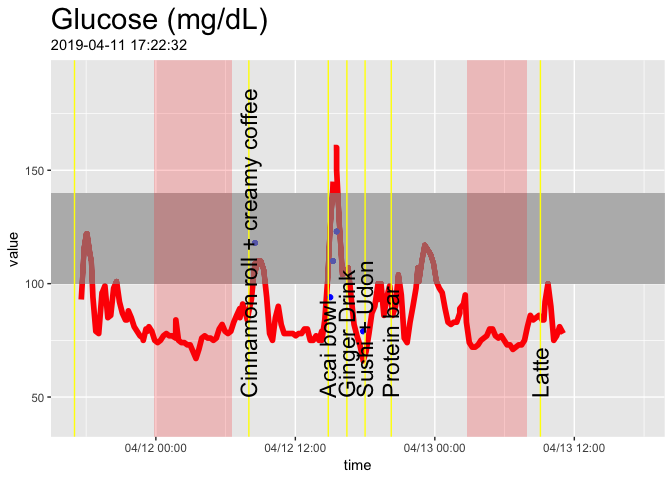
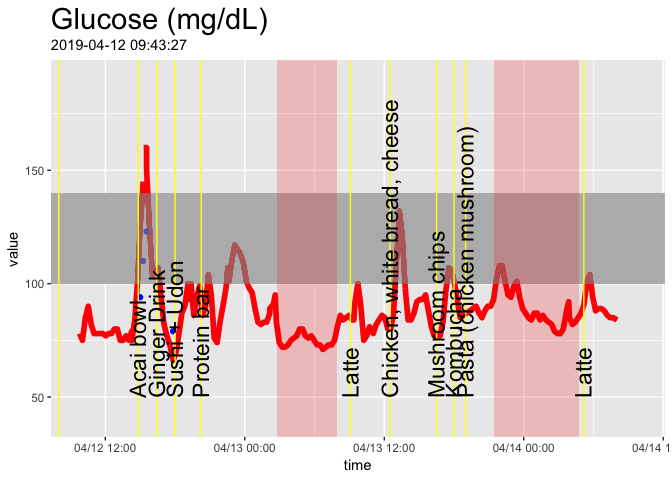
4/14 data

diff --git a/README.md b/README.md
@@ -1,7 +1,7 @@
 Continuous Glucose Monitoring with Freestyle Libre
 ================
 Richard Sprague
-2019-04-13
+2019-04-14
 
 See [Continous Glucose Monitoring: Start Here](http://richardsprague.com/notes/continuous-glucose-monitoring/)
 
@@ -218,7 +218,7 @@ glucose %>% filter(apply(sapply(glucose$time,
     ## ------------------------------------------------------------------------- 
     ## Describe . (tbl_df, tbl, data.frame):
     ## 
-    ## data.frame:  1407 obs. of  1 variables
+    ## data.frame:  1437 obs. of  1 variables
     ## 
     ##   Nr  ColName  Class    NAs  Levels
     ##   1   value    numeric  .          
@@ -228,14 +228,14 @@ glucose %>% filter(apply(sapply(glucose$time,
     ## Glucose Values While Sleeping
     ## 
     ##   length       n    NAs  unique     0s   mean  meanCI
-    ##    1'407   1'407      0      83      0  77.41   76.63
-    ##           100.0%   0.0%           0.0%          78.19
+    ##    1'437   1'437      0      83      0  77.65   76.88
+    ##           100.0%   0.0%           0.0%          78.42
     ##                                                      
     ##      .05     .10    .25  median    .75    .90     .95
-    ##    48.00   56.00  71.00   79.00  86.00  94.00  100.00
+    ##    48.00   57.00  71.00   79.00  86.00  94.00  100.00
     ##                                                      
     ##    range      sd  vcoef     mad    IQR   skew    kurt
-    ##    92.00   14.88   0.19   11.86  15.00  -0.23    0.75
+    ##    92.00   14.87   0.19   11.86  15.00  -0.25    0.75
     ##                                                      
     ## lowest : 40.0 (31), 41.0 (5), 42.0 (4), 43.0 (3), 44.0 (3)
     ## highest: 121.0, 122.0, 125.0, 131.0, 132.0 (2)
@@ -253,7 +253,7 @@ glucose %>% filter(apply(sapply(glucose$time,
     ## ------------------------------------------------------------------------- 
     ## Describe . (tbl_df, tbl, data.frame):
     ## 
-    ## data.frame:  5367 obs. of  1 variables
+    ## data.frame:  5446 obs. of  1 variables
     ## 
     ##   Nr  ColName  Class    NAs        Levels
     ##   1   value    numeric  38 (0.7%)        
@@ -263,14 +263,14 @@ glucose %>% filter(apply(sapply(glucose$time,
     ## Glucose Values While Awake
     ## 
     ##   length      n    NAs  unique     0s    mean  meanCI
-    ##    5'367  5'329     38     126      0   88.88   88.36
-    ##           99.3%   0.7%           0.0%           89.41
+    ##    5'446  5'408     38     126      0   88.90   88.38
+    ##           99.3%   0.7%           0.0%           89.42
     ##                                                      
     ##      .05    .10    .25  median    .75     .90     .95
-    ##    61.00  67.00  77.00   86.00  99.00  115.00  126.00
+    ##    61.00  67.00  77.00   86.50  99.00  115.00  126.00
     ##                                                      
     ##    range     sd  vcoef     mad    IQR    skew    kurt
-    ##   151.00  19.58   0.22   16.31  22.00    0.66    1.25
+    ##   151.00  19.47   0.22   15.57  22.00    0.67    1.28
     ##                                                      
     ## lowest : 40.0 (33), 41.0 (5), 42.0 (5), 43.0 (3), 44.0 (7)
     ## highest: 169.0 (2), 172.0, 187.0, 188.0, 191.0
